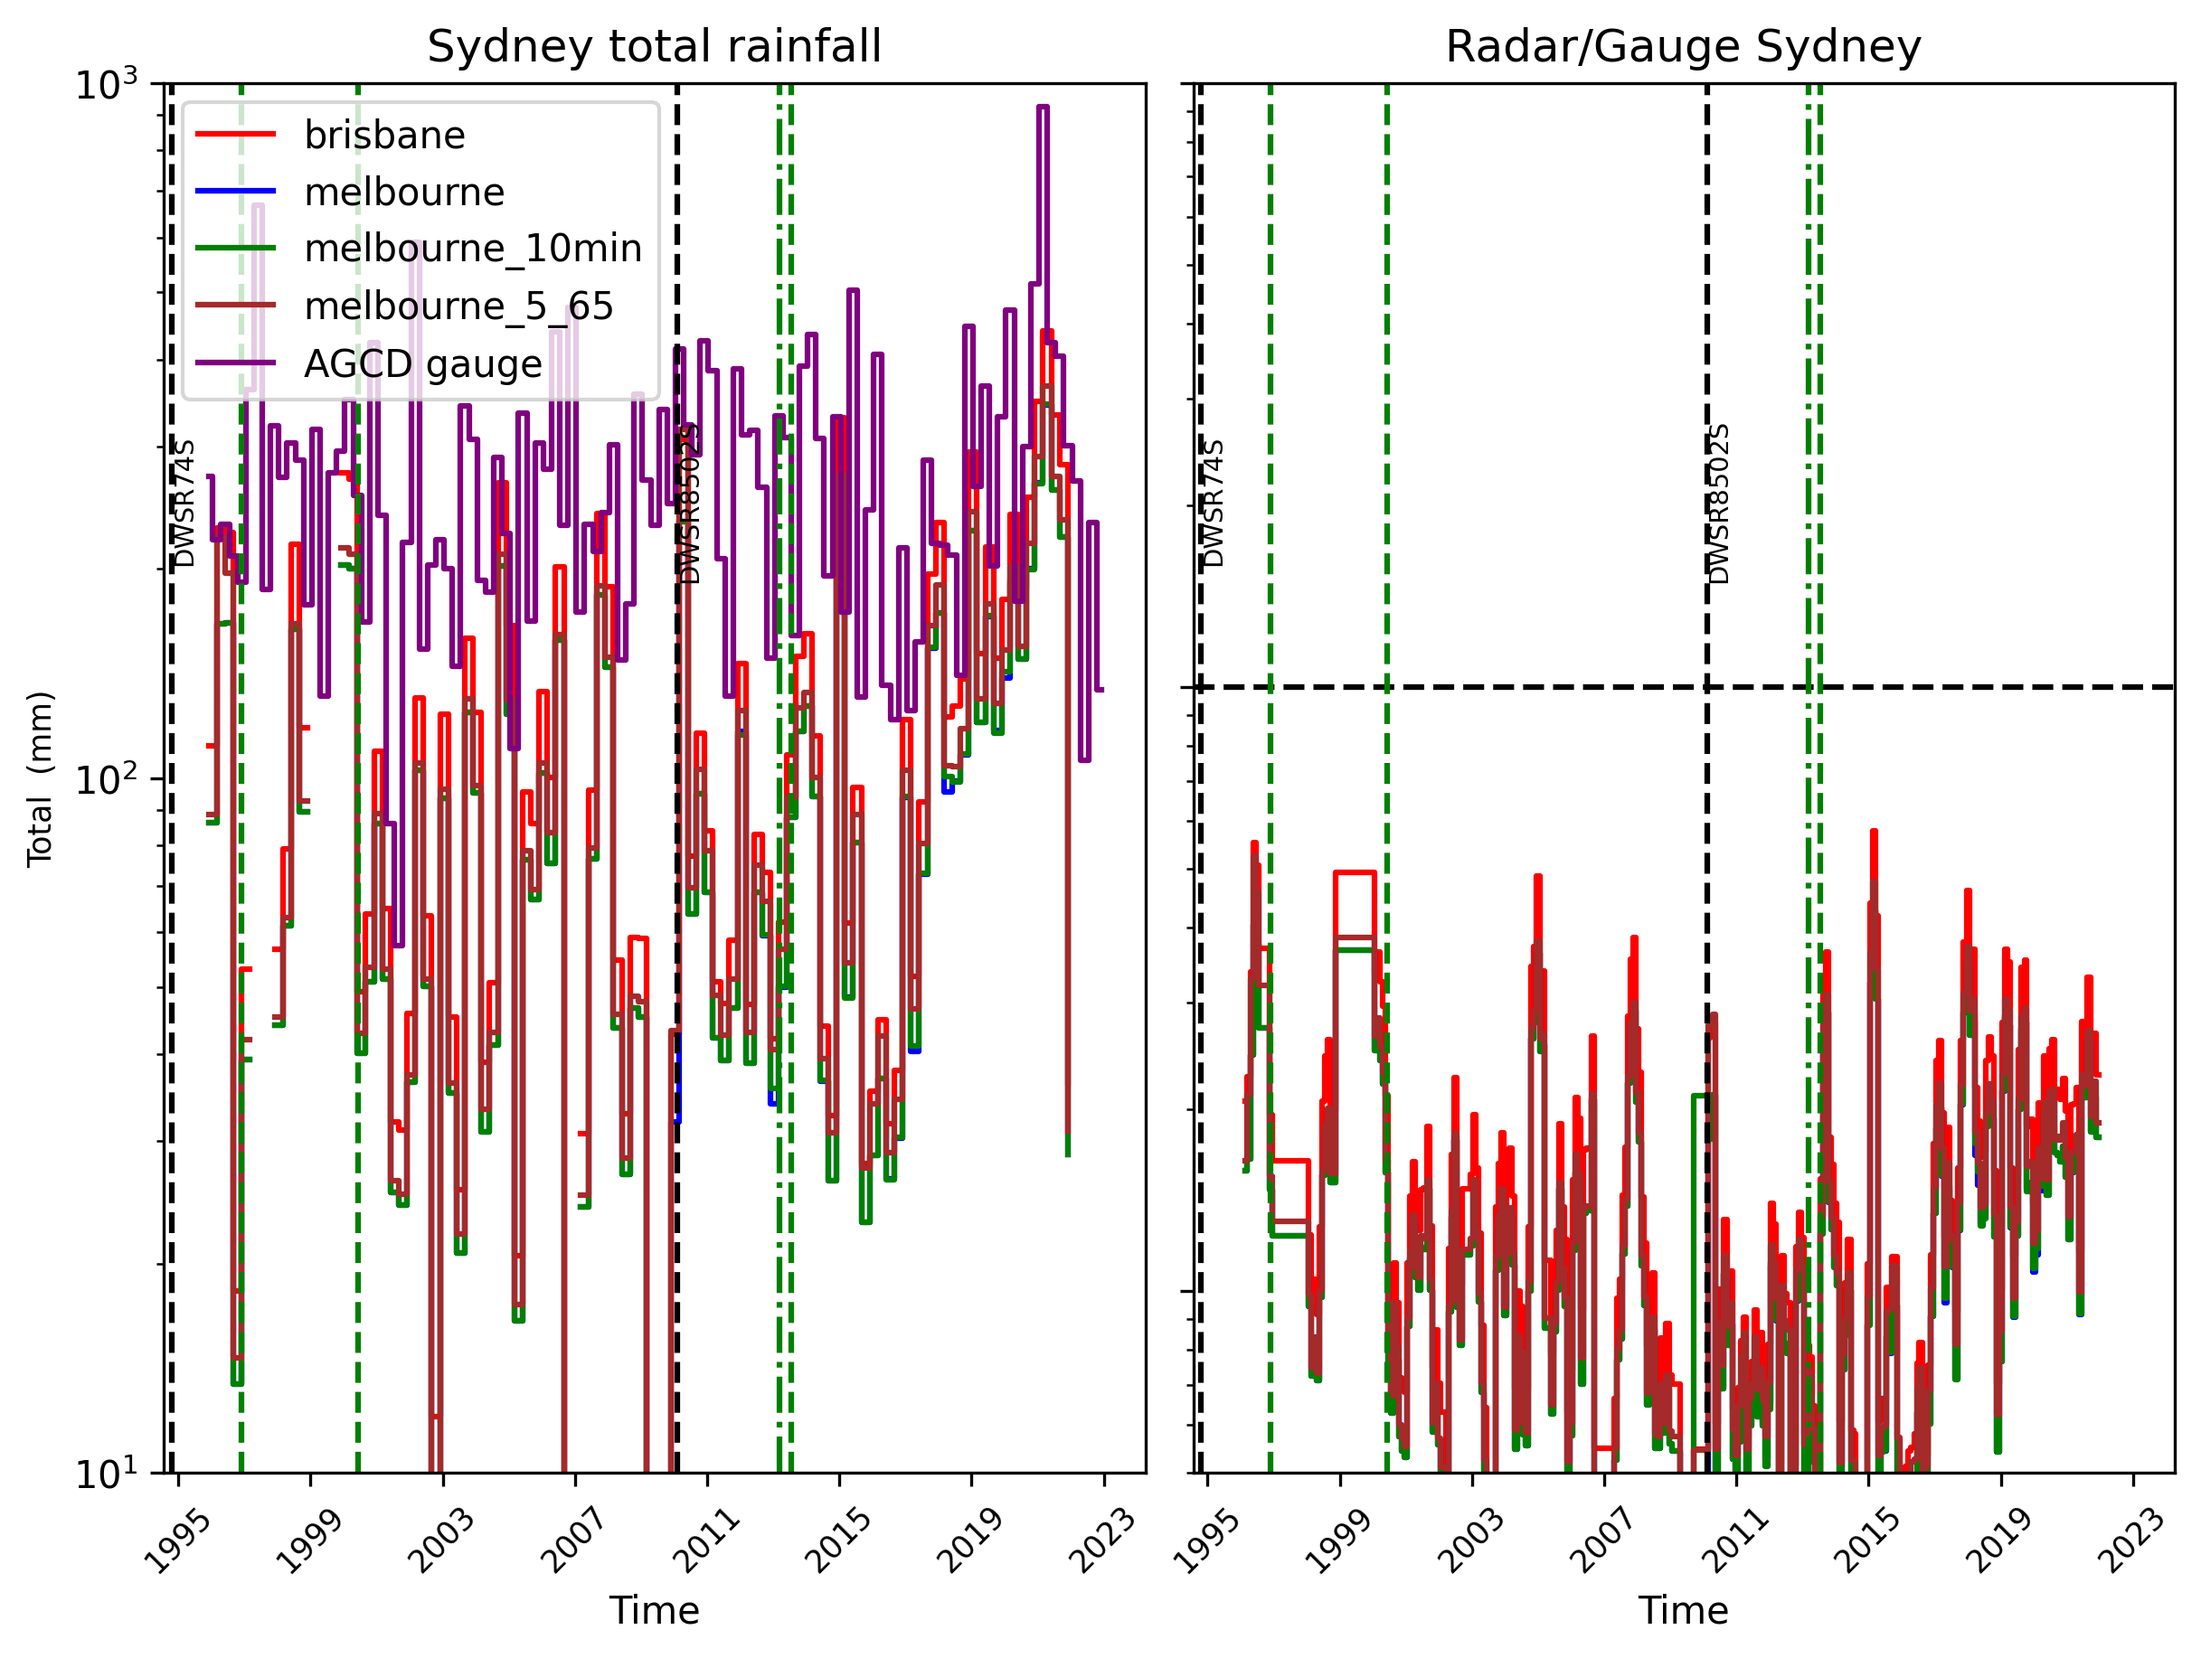
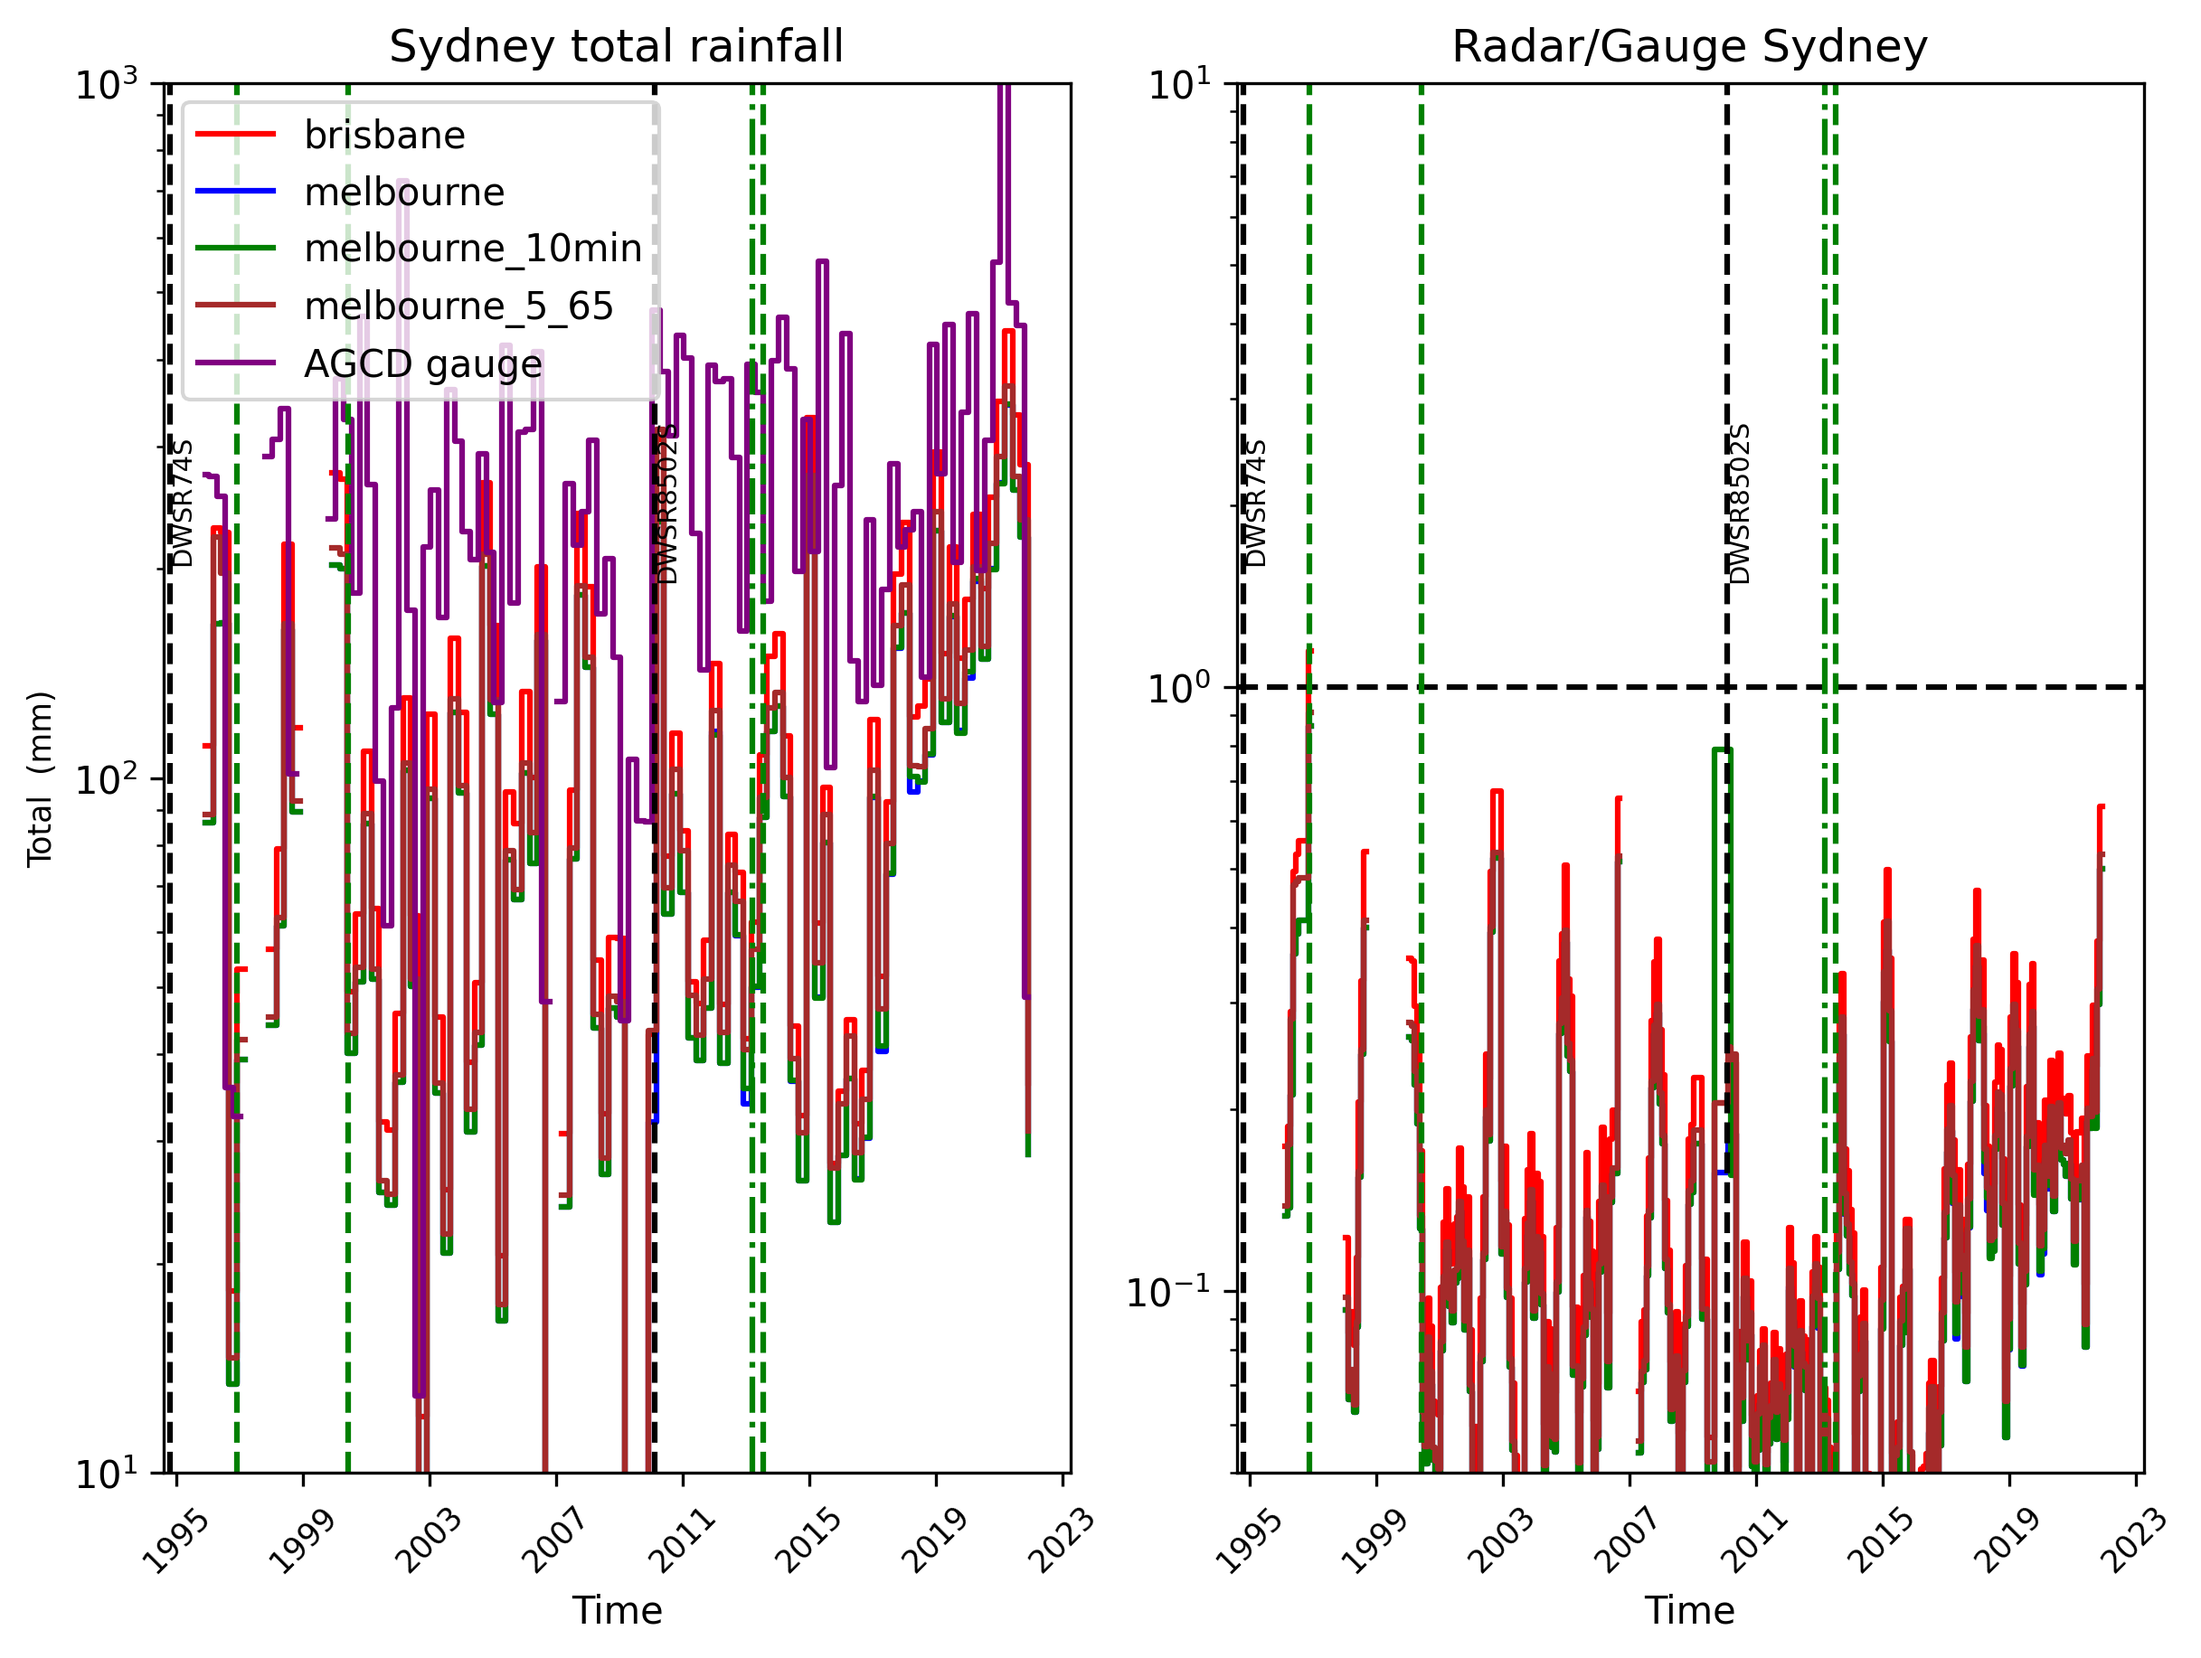
Discovered bug in that gauge data was non-zero over sea. Interpolated it and masked by radar.

diff --git a/plot_mean_rain_range.py b/plot_mean_rain_range.py
@@ -9,6 +9,7 @@ import commonLib
 import pathlib
 import cartopy
 import cartopy.geodesic
+import cartopy.crs as ccrs
 def obs_precip_radius(obs_precip:xarray.DataArray,
                       lon:typing.Optional[float]=None,
                       lat:typing.Optional[float]=None,
@@ -64,12 +65,19 @@ if not ('read_mean_rain_range' in locals() and read_mean_rain_range):
         range = np.sqrt(mn_rain.x ** 2 + mn_rain.y ** 2) / 1000.
         mean_radar_rain[site] = mn_rain.groupby_bins(range, radius_bins).mean().load()
         mean_radar_rain_sens[site] = mn_rain_sens.groupby_bins(range, radius_bins).mean().load()
-        obs_rgn = dict(lon=slice(site_info.site_lon - 2, site_info.site_lon + 2),
-                       lat = slice(site_info.site_lat-2,site_info.site_lat+2))
-        mean_gauge_rain[site] = obs_precip_radius(ds_gauge.precip.sel(**obs_rgn),
-                                                    lon=site_info.site_lon,
-                                                    lat=site_info.site_lat,
-                                                    radius=radius_bins).load()
+        # get inthe gauge data
+        radar_proj = ausLib.radar_projection(ds_rad.proj.attrs)
+        trans_coords = ccrs.PlateCarree().transform_points(radar_proj,
+                                                           x=np.array([-125e3, 125e3]), y=np.array([-125e3, 125e3]))
+        # get in the gauge data then inteprolate to radar grid and mask by radar data
+        lon_slice = slice(trans_coords[0, 0], trans_coords[1, 0])
+        lat_slice = slice(trans_coords[0, 1], trans_coords[1, 1])
+        obs_rgn = dict(lon=lon_slice,  lat = lat_slice)
+        longitude = mn_rain.longitude.isel(time=0).squeeze(drop=True)
+        latitude = mn_rain.latitude.isel(time=0).squeeze(drop=True)
+        time = mn_rain.time
+        gauge = ds_gauge.precip.sel(**obs_rgn).interp(lon=longitude, lat=latitude, time=time).where(mn_rain.notnull())
+        mean_gauge_rain[site] = gauge.groupby_bins(range, radius_bins).mean().load()
         my_logger.info(f'Loaded data for {site}')
     read_mean_rain_range  = True
     my_logger.info('Loaded all data')

diff --git a/plot_mean_monthly_rain.py b/plot_mean_monthly_rain.py
@@ -42,18 +42,24 @@ if not ('read_plot_mean_monthly_rain' in locals() and read_plot_mean_monthly_rai
             raise FileNotFoundError(f'No file {file}')
 
         ds = xarray.open_dataset(file)
-        mean_rain = ds.mean_raw_rain_rate.sel(**rgn).mean(['x','y']).load()
-        total_rain[site] = mean_rain*mean_rain.time.dt.days_in_month*24
+        mean_rain = ds.mean_raw_rain_rate.sel(**rgn)
+        total_rain[site] = (mean_rain.mean(['x','y'])*mean_rain.time.dt.days_in_month*24).load()
         #site_info[site] = ausLib.site_info(ausLib.site_numbers[site])
-        # wprk out region for gauge -- convert from m to long/l
+        # work  out region for gauge -- convert from m to long/l
         radar_proj = ausLib.radar_projection(ds.proj.attrs)
         trans_coords = ccrs.PlateCarree().transform_points(radar_proj,
                                                            x=np.array([-75e3,75e3]), y=np.array([-75e3,75e3]))
+        # get in the gauge data then inteprolate to radar grid and mask by radar data
         lon_slice = slice(trans_coords[0,0],trans_coords[1,0])
         lat_slice = slice(trans_coords[0,1],trans_coords[1,1])
-
-        gauge_total[site] = ds_obs.precip.sel(lon=lon_slice,lat=lat_slice).mean(['lon','lat']).load()
+        gauge = ds_obs.precip.sel(lon=lon_slice,lat=lat_slice)
+        longitude = mean_rain.longitude.isel(time=0).squeeze(drop=True)
+        latitude= mean_rain.latitude.isel(time=0).squeeze(drop=True)
+        time = mean_rain.time
+        gauge = gauge.interp(lon=longitude, lat=latitude,time=time).where(mean_rain.notnull())
+        gauge_total[site] = gauge.mean(['x','y']).load()
         my_logger.info(f'Loaded data for {site}')
+
     # read in the Sydney sens studies.
     for file in sydney_sens_studies:
         direct = ausLib.data_dir / f'processed/{file}'
@@ -140,7 +146,7 @@ for a in [ax,ax_ratio]:
     a.tick_params(axis='x', labelsize='small',rotation=45) # set small font!
     a.set_yscale('log')
     ausLib.plot_radar_change(a,site_info['Sydney'],trmm=True)
-    a.label_outer()
+
 
 ax.legend()
 fig.show()
